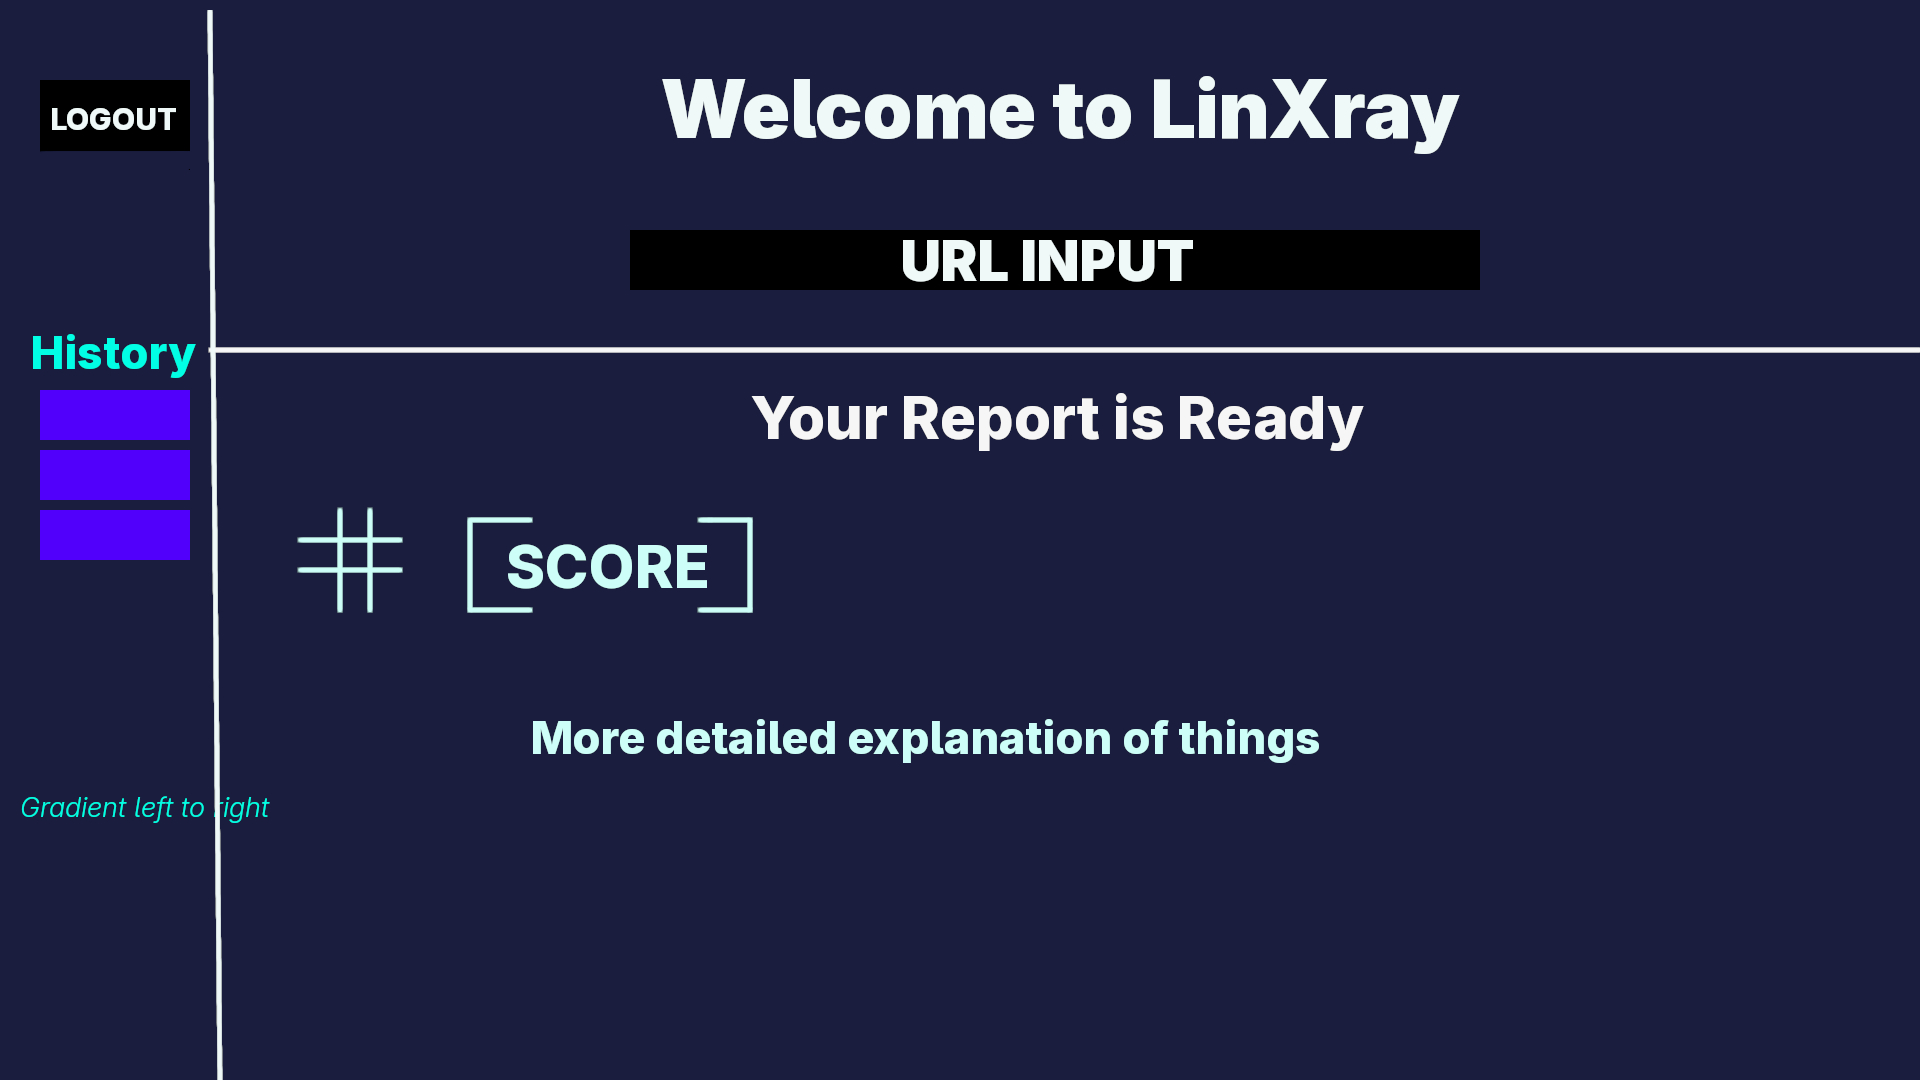
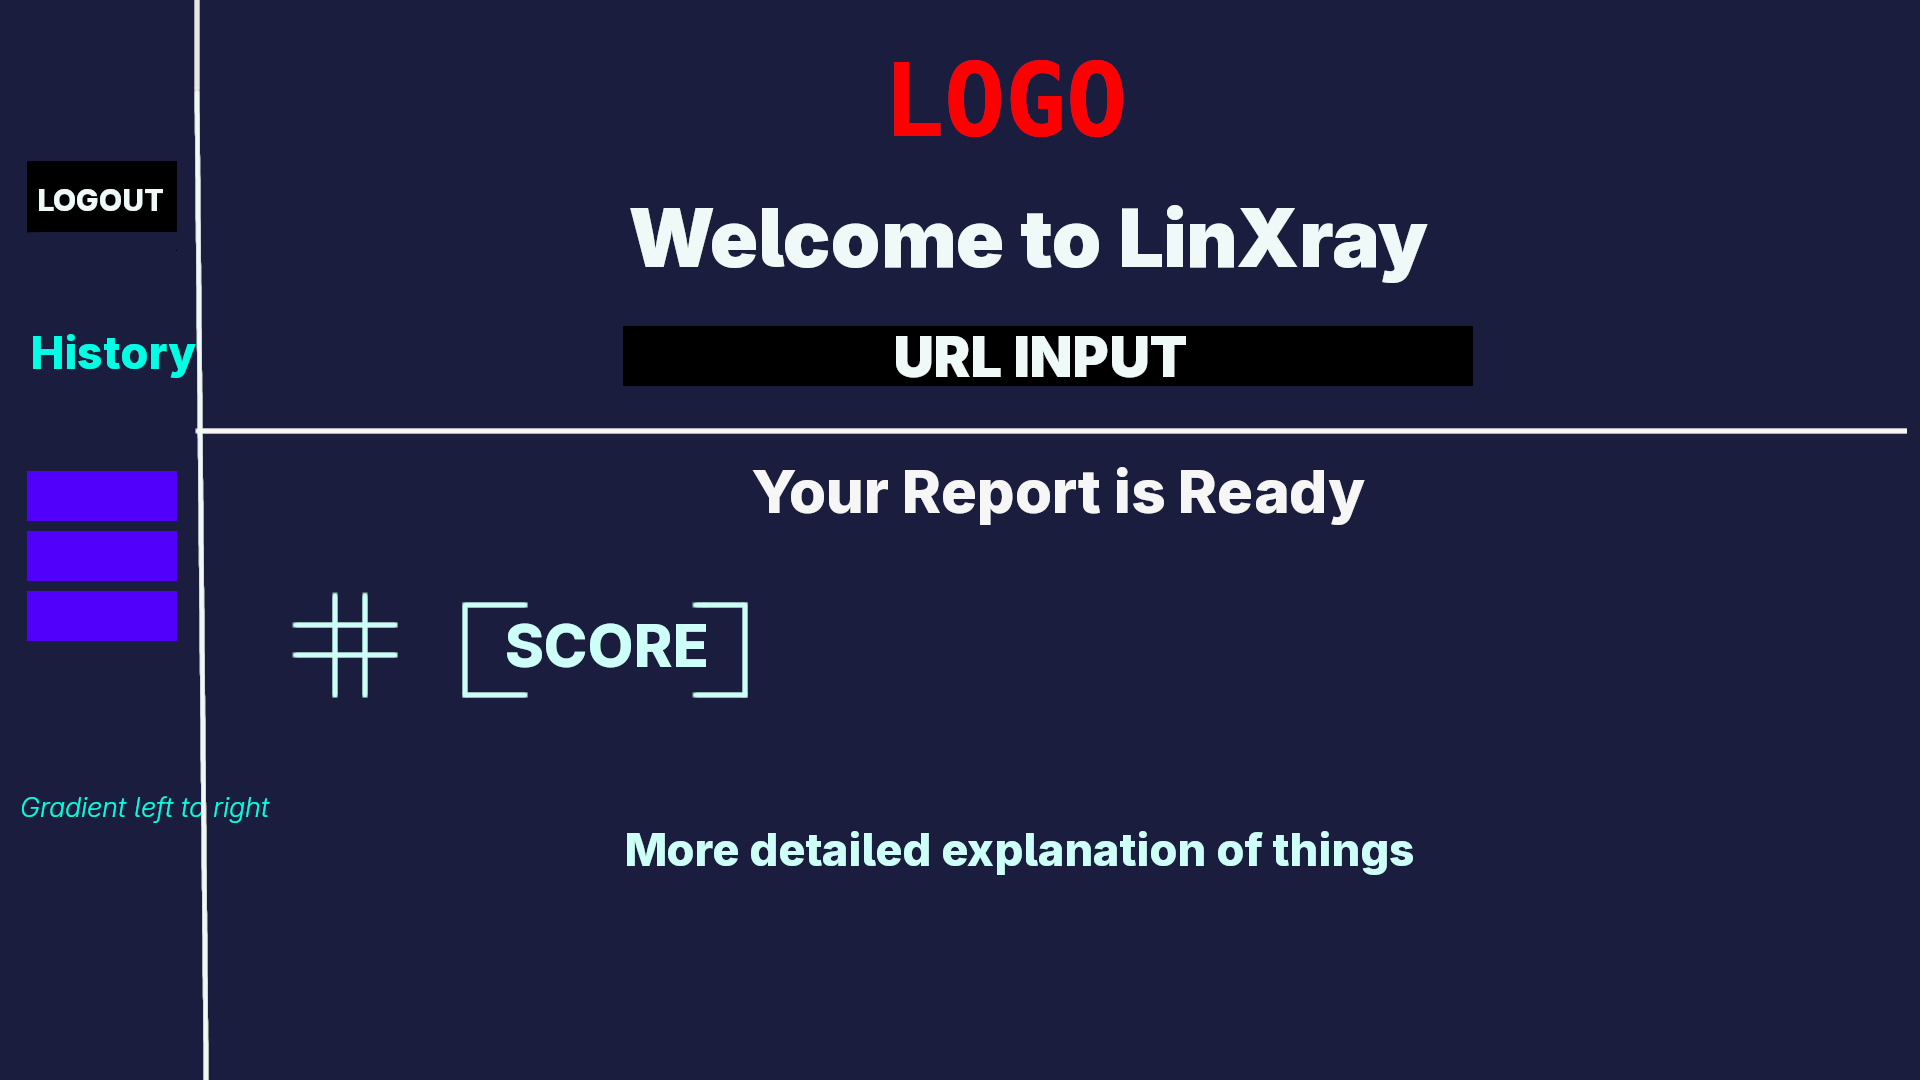
Re-styling of main page

diff --git a/app.py b/app.py
@@ -101,7 +101,7 @@ if st.session_state.get("authentication_status"):
         """
         <style>
         [data-testid="stSidebar"] {
-            background: linear-gradient(to right, #2C325B, #2C325B07);
+            background: linear-gradient(to right, #2C325B, #2C325B10);
         }
         /* Optional: Ensure text color inside sidebar remains readable on dark gradients */
         [data-testid="stSidebar"] * {
@@ -121,9 +121,6 @@ if st.session_state.get("authentication_status"):
     st.markdown("""
     <div style="text-align: center;">
         <h1 style="
-            background: linear-gradient(90deg, #ffffff, #ffffff);
-            -webkit-background-clip: text;
-            -webkit-text-fill-color: transparent;
             font-family: 'Orbitron',sans-serif;
             font-size: 5rem;
             white-space: nowrap; /* <-- Prevents the text from breaking into two lines */
@@ -146,8 +143,10 @@ if st.session_state.get("authentication_status"):
             border: none;
             height: 3px;
             background-color: #b32121;
-            width: 100%;
-            margin: 0 auto;
+            width: 150%;
+            margin-left: -25%;
+            margin-top: 20px;
+            margin-bottom: 20px;
         ">
     """, unsafe_allow_html=True)
 
@@ -156,10 +155,8 @@ if st.session_state.get("authentication_status"):
     st.markdown("""
         <div1 style="text-align: center;">
             <h2 style="
-                background: linear-gradient(90deg,#3366ff, #97026a);
-                -webkit-background-clip: text;
-                -webkit-text-fill-color: transparent;
                 font-family: monospace;
+                white-space: nowrap;
                 display: inline-block;
             ">
                 Your Scan Results will Appear Here
@@ -185,7 +182,17 @@ elif st.session_state.get("authentication_status") is None:
     if st.session_state["auth_mode"] == "Login":
         st.markdown("<h2 style='text-align: center;'>Login</h2>", unsafe_allow_html=True)
         authenticator.login(location="main", key="unique_login_form")
-        st.markdown("---")
+        st.space(10)
+        st.markdown("""
+                <hr style="
+                    border: none;
+                    height: 3px;
+                    background-color: #3F4464;
+                    width: 100%;
+                    margin: 0 auto;
+                ">
+            """, unsafe_allow_html=True)
+        st.space(20)
         if st.button("Need an account? Sign Up", use_container_width=True):
             st.session_state["auth_mode"] = "Sign Up"
             st.rerun()
